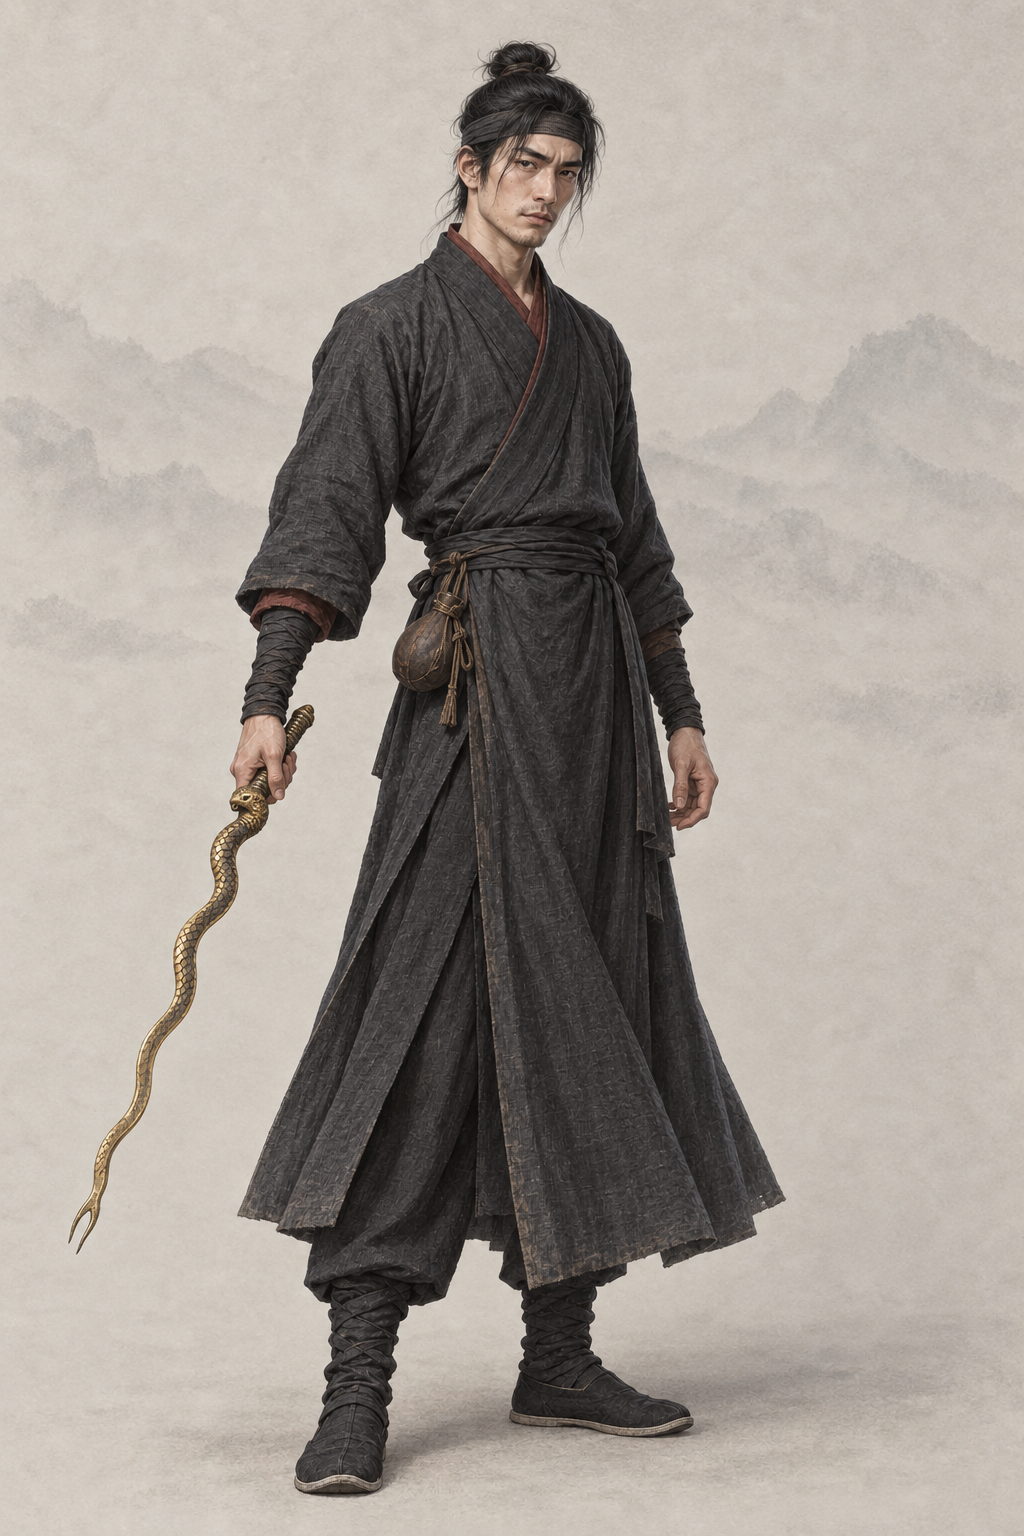
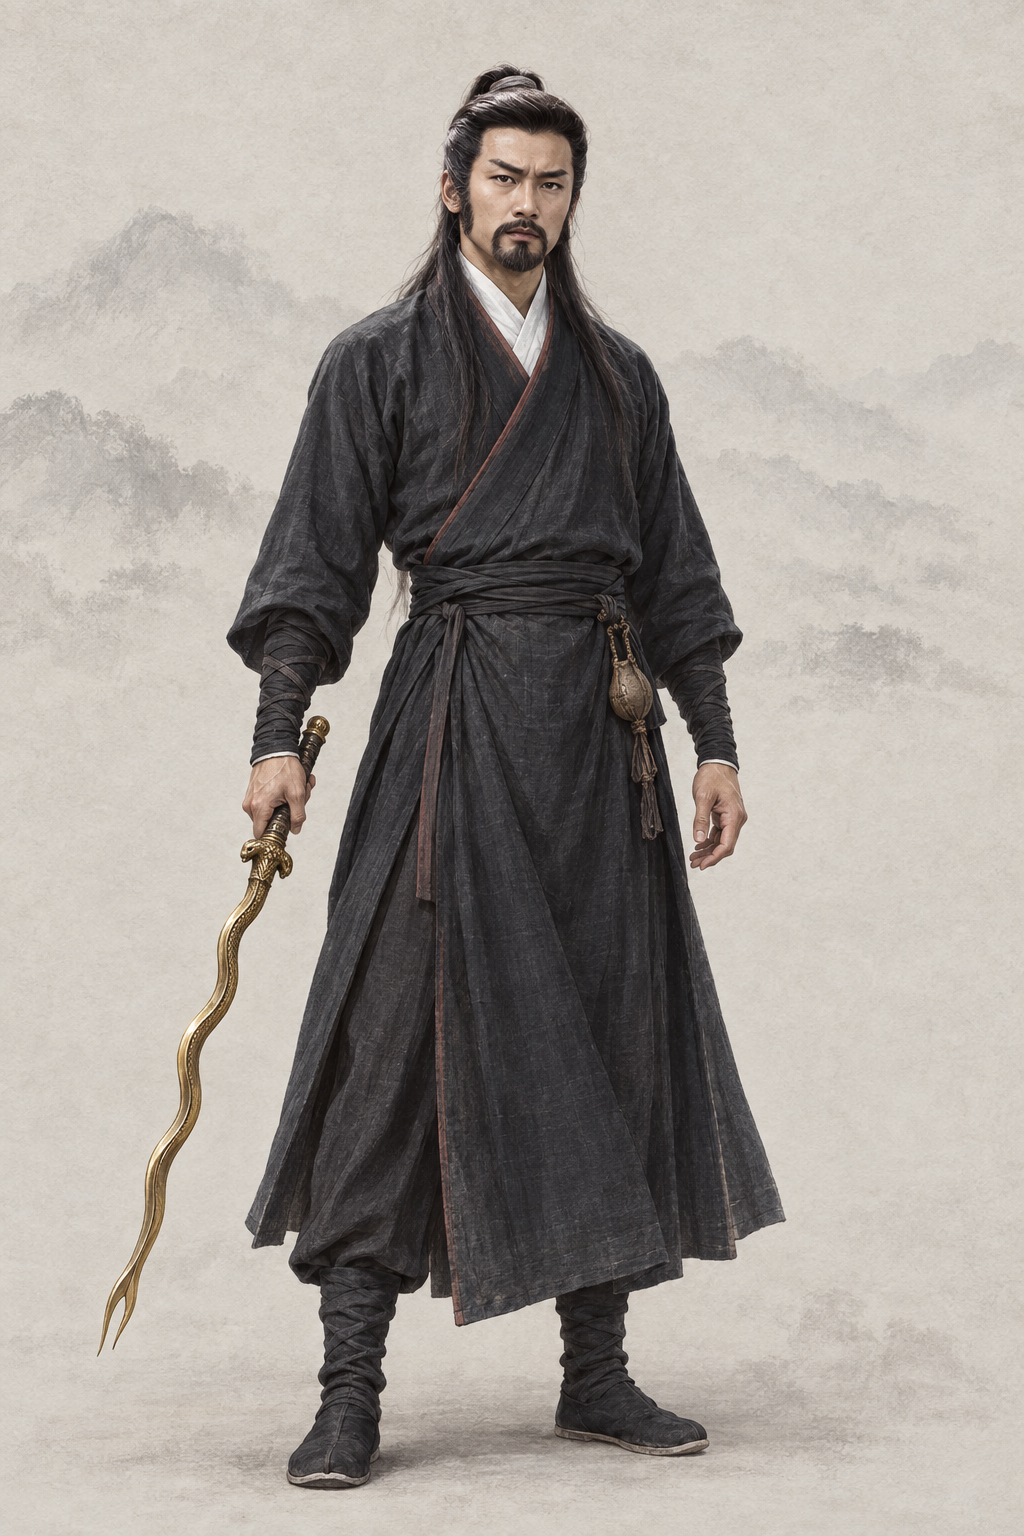
assets(character): por_npc_xiaxueyi__ch07_prime_memory_base 夏雪宜（codex · AR-32 1985 TVB《碧血剑》 剧照 + 基线）
上传顺序：第 1–2 张为 1985 TVB《碧血剑》金蛇郎君夏雪宜剧照（xiaxueyi_1985_miaoqiaowei_sohu.jpg 裁去水印；sina1.jpg 裁去旁人），最后两张为同性别基线；提示词写回、frontmatter 加 classic_ref。

diff --git a/assets/default/prompts/characters/ch07-bixue/npc_xiaxueyi.md b/assets/default/prompts/characters/ch07-bixue/npc_xiaxueyi.md
@@ -13,9 +13,28 @@ references:
     use: 本工作区 manifest 为 candidate，尚未获批；仅参考纸底、光线、笔触与设色，不沿用脸、体型、服饰和道具
 status: new
 redo_reason: "金蛇郎君夏雪宜（S，袁承志的遗书之师）缺图；补出主线前在世时的回忆形象。"
-reference_upload:
-- assets/default/baseline/character/male/ref_npc_linghuchong__ch05_base01.png
 codex_prompt_rev: 2026-10-02
+reference_upload:
+- .agents/coord/imagegen-reference/identity-20261002/bixue/xiaxueyi_1985_miaoqiaowei_sohu.jpg
+- .agents/coord/imagegen-reference/identity-20261002/bixue/xiaxueyi_1985_miaoqiaowei_sina1.jpg
+- assets/default/baseline/character/male/ref_npc_linghuchong__ch05_base01.png
+- assets/default/baseline/character/male/ref_npc_xiaofeng__ch01_base01.png
+classic_ref:
+  version: 1985 TVB《碧血剑》
+  stills:
+  - .agents/coord/imagegen-reference/identity-20261002/bixue/xiaxueyi_1985_miaoqiaowei_sohu.jpg
+  - .agents/coord/imagegen-reference/identity-20261002/bixue/xiaxueyi_1985_miaoqiaowei_sina1.jpg
+  crop:
+    xiaxueyi_1985_miaoqiaowei_sohu.jpg:
+    - 150
+    - 0
+    - 1150
+    - 850
+    xiaxueyi_1985_miaoqiaowei_sina1.jpg:
+    - 0
+    - 0
+    - 330
+    - 450
 ---
 
 <!-- full-coverage-import:current-policy:v1 -->
@@ -28,6 +47,28 @@ codex_prompt_rev: 2026-10-02
 # 夏雪宜 · 《碧血剑》（ch07）
 
 ## Gemini 提示词
+
+> 2026-10-02 AR-32 重出（8 号出图员，codex exec · image_gen）：主要角色参考经典造型加项目基线生成。上传顺序：第 1–2 张为 1985 TVB《碧血剑》金蛇郎君夏雪宜剧照（xiaxueyi_1985_miaoqiaowei_sohu.jpg 裁去水印；sina1.jpg 裁去旁人），最后两张为同性别画风基线（缩小版 JPEG）。参考图只借造型、气质与面部特征，画面按项目画风重绘、不复制照片或像素图。上一版保留在下一节作历史。
+
+```text
+生成一张 2:3 竖幅全身人物立绘：单人、单一视角、完整全身——头顶、双手、双脚和手中器物的两端都在画面内，四周留出自然空白；人物站姿自然，身体基本朝向正面，头部端正（不歪头、不仰不俯），镜头平视。
+【参考图】第 1–2 张参考图是该角色经典影视造型的剧照：借鉴其发型、服饰、配色、标志道具、气质和面部特征，让人一眼认出是这个角色；但必须重新绘制成项目画风，不要照片质感，不要照搬剧照的构图、光影、背景和姿势，也不要做成照片修图。最后两张是本项目画风基线：画风、用色、光线、质感和暖浅灰纸底加淡水墨背景以它们为准。
+【剧照借鉴要点】取剧照里的发型（黑发向后束起、额前和鬓边垂着几缕散发）、唇上八字须与颏下短须、浓眉深目的冷峻俊朗脸型、墨黑长衫配白色内领。姿势和构图按下文的全身立绘来画，不照搬剧照。
+【画风】写实手绘古风人物插画，与本项目写实武侠角色立绘同一画风，像功力深厚的画师用细腻笔触画出的真实人物。手绘插画质感，不是 CG 渲染：不要过度光滑的皮肤、完美对称的五官、塑料高光、过度锐利的发丝；保留自然的笔触和细微不完美。皮肤有真实质感——细小毛孔、细纹、晒痕和自然的左右不对称，不磨皮、不油亮；头发是一缕缕自然的发丝和少量碎发；布料看得出经纬纹理、厚薄和自然垂坠的褶皱，带穿用过的轻微旧化，但完整不破烂；整体设色低饱和、沉稳；柔和的自然光从左上方照来，明暗过渡自然，不打舞台光、轮廓光或美颜柔光。不是照片，不是三维渲染，不是动漫或游戏 CG，也不是油画（没有厚涂笔触和画布纹理）。
+【背景】不透明的暖浅灰色纸底，只在远处有极淡的水墨远山和薄雾，大面积留白；人物与背景明暗分明、轮廓边缘干净完整（后续要自动抠图），水墨和纸纹只在背景里，不侵入人物和衣服；脚下只有很淡的一点接触阴影。
+【人物】夏雪宜，人称「金蛇郎君」，《碧血剑》中袁承志未曾谋面的武学传承者；本图是主线之前他在世时的回忆形象（明末）。
+【年龄与体态】约三十岁的成年男子，身材颀长清瘦而筋骨结实，站姿孤傲。
+【经典造型】八十年代经典港剧里的金蛇郎君：一身墨黑长衫、黑发束起额前垂着散发、唇上八字须配颏下短须，手持金蛇剑；俊美、冷傲、孤绝，带一丝邪气和悲凉，是好看的危险人物。
+【面容】按剧照：修长的脸，颧骨清晰，下颌线锋利；浓眉斜飞入鬓、眉头微蹙；眼窝略深，眼神冷傲孤僻，带一丝邪气和隐忍的悲凉；鼻梁高挺；嘴唇薄、嘴角紧抿；唇上修剪整齐的八字须，颏下一撮短须；肤色偏白，有真实纹理。俊美而危险，亦正亦邪。
+【发式】黑发向后束起，用黑色发带扎住，额前和鬓边垂下几缕散发，其余长发垂在背后。
+【服饰】墨黑色交领长衫（右衽，左襟压右襟），白色内领，衣缘有暗赭红色窄边，窄袖，腰束黑布带，深色长裤与布靴。
+【道具】右手低持金蛇剑——一柄金色的奇形宝剑，剑身弯曲如游动的蛇，剑尖分叉如蛇信；腰间挂一只小皮囊（装金蛇锥）；左手自然下垂。
+【姿态与神情】身体基本朝前、肩颈松弛，目光冷定地看向前方。
+【不要】画面里不要任何文字、题款、印章、签名、水印、边框、分格或多视图；不要第二个人；不要幼态（童颜、娃娃脸、婴儿肥、儿童或少年身材、大头小身）；不要塑料感皮肤、磨皮美颜、网红脸（尖下巴大眼高鼻的模板脸）、过度对称、浓妆、偶像式打光、蜡像感；不要照片质感，不要像剧照照片、照片修图或拼贴，不要照搬剧照的背景、光影、构图和姿势；不要三维渲染或动漫大眼；不要歪头、斜镜头；不要多指、缺指（设定的伤残除外）、手与器物粘连或悬空；衣襟必须右衽（穿着者的左襟压在右襟上），不要左衽（设定为少数民族服制的除外），不要水平镜像；不要现代物品、发光特效、法阵或能量光。不要和袁承志同一张脸；不要真蛇；不要妖魔化的鬼脸；不要清代剃发留辫。
+【画风基线】随提示词上传的参考图里，最后两张是本项目的立绘画风基线：只参考它们的画风、用色、光线、质感和暖浅灰纸底加淡水墨的背景处理，整体画风必须与它们一致——精细写实的数字手绘插画，不是油画，不要厚涂笔触和画布纹理。基线图只取画风，不取长相：不要照搬基线图里人物的长相、年龄、发型、服饰和姿势。
+```
+
+## AR-31 文字版 Gemini 提示词（2026-10-02 凌晨；AR-32 重出之前，历史，不再用于出图）
 
 > 2026-10-02 Codex 人物线 2 号（AR-31）：在审核组稿上补一行「经典形象」（借鉴公认经典造型的发式、装束、配色、标志道具与气质，只写文字，不写演员名、不上传剧照），并补去 AI 化要求。本轮出图用下面第一个代码块；审核组原稿保留在其后的「审核组原稿」小节作历史。
 
